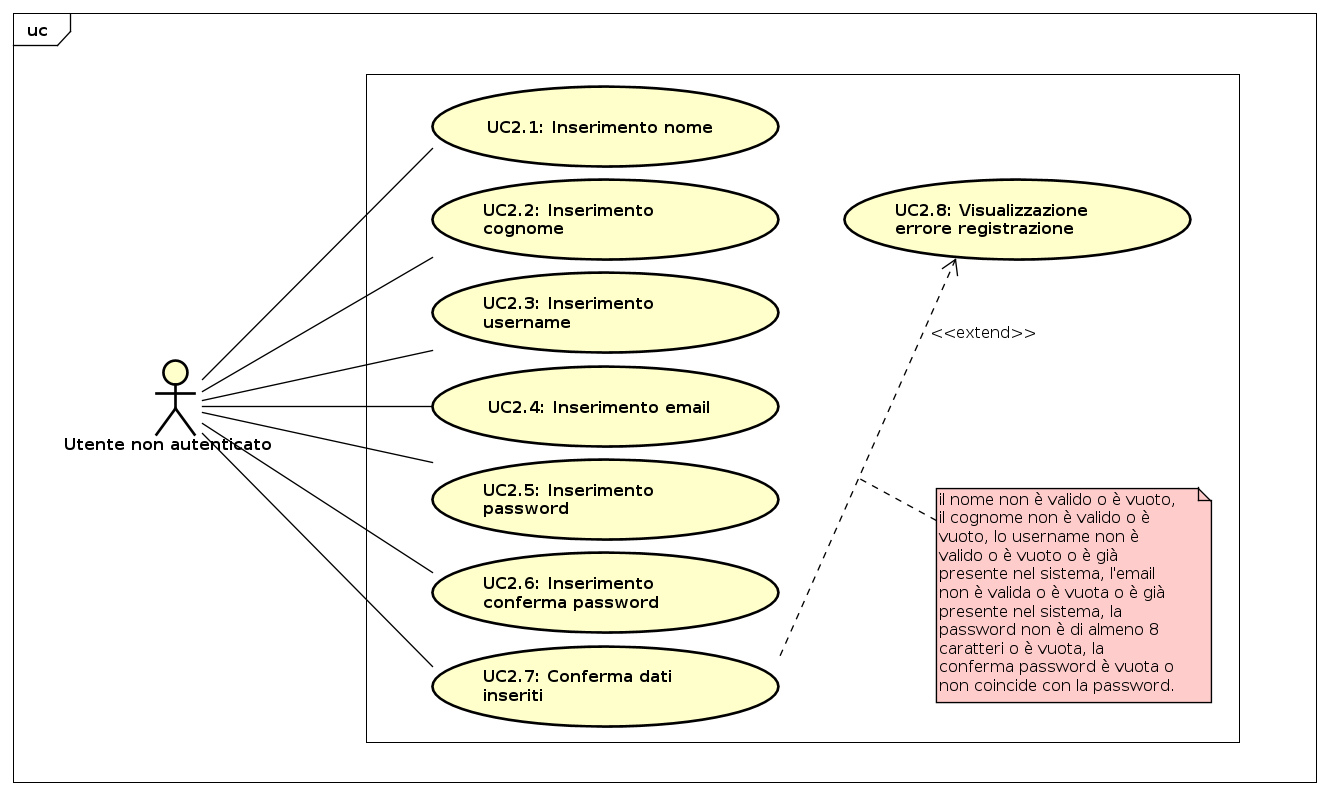
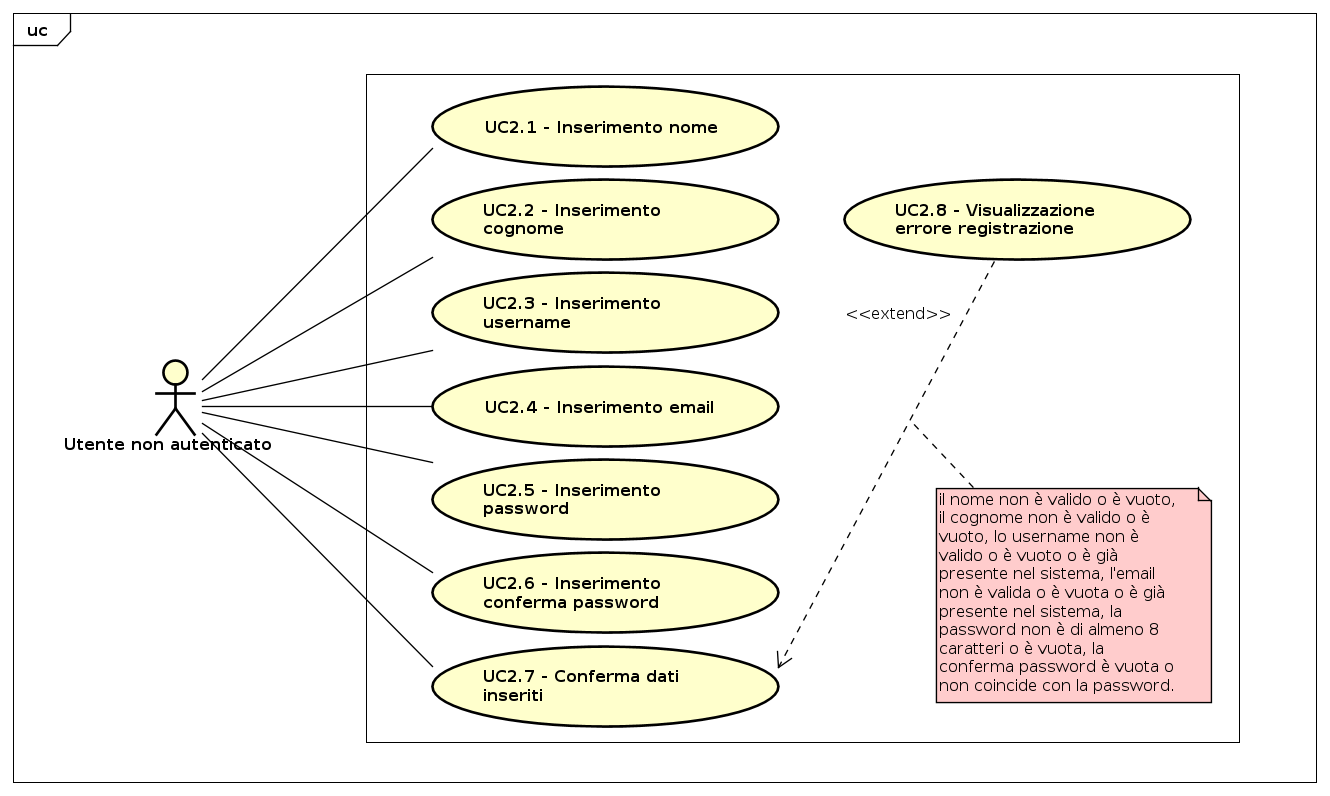
Correzioni ad UC2.

diff --git a/RR/AnalisiDeiRequisiti/sezioni/CasiD'uso/CasoD'usoUC2.tex b/RR/AnalisiDeiRequisiti/sezioni/CasiD'uso/CasoD'usoUC2.tex
@@ -4,19 +4,21 @@
 	\includegraphics[scale=0.5]{UML/UC2.png}
 \end{center}
 \begin{itemize}
-\item \textbf{Attori}: Utente;
-\item \textbf{Scopo e descrizione}: per poter usufruire dei servizi forniti dalla piattaforma, l'utente deve registrarsi inserendo email e password;
+\item \textbf{Attori}: utente non autenticato;
+\item \textbf{Descrizione}: per poter usufruire dei servizi forniti dalla piattaforma, l'attore deve registrarsi inserendo email e password;
 \item \textbf{Precondizione}: il sistema è avviato e mostra la pagina iniziale;
+\item \textbf{Postcondizione}: il sistema ha registrato l'attore.
 \item \textbf{Scenario principale}:
 	\begin{enumerate}
-	\item L'utente inserisce il proprio nome (UCD2.1);
-	\item L'utente inserisce il proprio cognome (UCD2.2);
-	\item L'utente sceglie uno username (UCD2.3);
-	\item L'utente inserisce l'email (UCD2.4);
-	\item L'utente inserisce la password (UCD2.5);
-	\item L'utente inserisce una seconda volta la password (UCD2.6);
-	\item L'utente conferma i dati inseriti (UCD2.7).
+	\item L'attore inserisce il proprio nome (UC2.1);
+	\item L'attore inserisce il proprio cognome (UC2.2);
+	\item L'attore sceglie uno username (UC2.3);
+	\item L'attore inserisce l'email (UC2.4);
+	\item L'attore inserisce la password (UC2.5);
+	\item L'attore inserisce una seconda volta la password (UC2.6);
+	\item L'attore conferma i dati inseriti (UC2.7).
 	\end{enumerate}
+\item \textbf{Estensione}: l'attore visualizza un messaggio di errore (UC2.8).
 \item \textbf{Scenario alternativo}: possono verificarsi uno o più dei seguenti scenari:
 	\begin{itemize}
 	\item[-] Il nome inserito non è valido oppure è vuoto;
@@ -29,70 +31,76 @@
 	\item[-] La password e la conferma password non coincidono.
 	\end{itemize}
 In tal caso il sistema ritorna allo stato precedente l'inserimento dei dati visualizzando un messaggio di errore;
-\item \textbf{Estensione}: l'utente visualizza un messaggio di errore (UCD2.8).
-\item \textbf{Postcondizione}: il sistema ha registrato l'utente.
 \end{itemize}
 
 \subsubsection{Caso d'uso UC2.1: Inserimento nome}
 \begin{itemize}
-\item \textbf{Attori}: Utente;
-\item \textbf{Scopo e descrizione}: l'utente inserisce il proprio nome per potersi registrare;
-\item \textbf{Precondizione}: il sistema presenta all'utente lo spazio destinato a questa operazione;
+\item \textbf{Attori}: utente non autenticato;
+\item \textbf{Descrizione}: l'attore può inserire il proprio nome per potersi registrare;
+\item \textbf{Precondizione}: il sistema presenta all'attore lo spazio destinato a questa operazione;
 \item \textbf{Postcondizione}: il nome è stato inserito.
+\item \textbf{Scenario principale}: l'attore inserisce il proprio nome per potersi registrare;
 \end{itemize}
 
 \subsubsection{Caso d'uso UC2.2: Inserimento cognome}
 \begin{itemize}
-\item \textbf{Attori}: Utente;
-\item \textbf{Scopo e descrizione}: l'utente inserisce il proprio cognome per potersi registrare;
-\item \textbf{Precondizione}: il sistema presenta all'utente lo spazio destinato a questa operazione;
+\item \textbf{Attori}: utente non autenticato;
+\item \textbf{Descrizione}: l'attore può inserire il proprio cognome per potersi registrare;
+\item \textbf{Precondizione}: il sistema presenta all'attore lo spazio destinato a questa operazione;
 \item \textbf{Postcondizione}: il cognome è stato inserito.
+\item \textbf{Scenario principale}: l'attore inserisce il proprio cognome per potersi registrare;
 \end{itemize}
 
 \subsubsection{Caso d'uso UC2.3: Inserimento username}
 \begin{itemize}
-\item \textbf{Attori}: Utente;
-\item \textbf{Scopo e descrizione}: l'utente inserisce il proprio username per potersi registrare;
-\item \textbf{Precondizione}: il sistema presenta all'utente lo spazio destinato a questa operazione;
+\item \textbf{Attori}: utente non autenticato;
+\item \textbf{Descrizione}: l'attore può inserire il proprio username per potersi registrare;
+\item \textbf{Precondizione}: il sistema presenta all'attore lo spazio destinato a questa operazione;
 \item \textbf{Postcondizione}: lo username è stato inserito.
+\item \textbf{Scenario principale}: l'attore inserisce il proprio username per potersi registrare;
 \end{itemize}
 
 \subsubsection{Caso d'uso UC2.4: Inserimento email}
 \begin{itemize}
-\item \textbf{Attori}: Utente;
-\item \textbf{Scopo e descrizione}: l'utente inserisce il proprio indirizzo email per potersi registrare;
-\item \textbf{Precondizione}: il sistema presenta all'utente lo spazio destinato a questa operazione;
+\item \textbf{Attori}: utente non autenticato;
+\item \textbf{Descrizione}: l'attore può inserire il proprio indirizzo email per potersi registrare;
+\item \textbf{Precondizione}: il sistema presenta all'attore lo spazio destinato a questa operazione;
 \item \textbf{Postcondizione}: l'email è stata inserita.
+\item \textbf{Scenario principale}: l'attore inserisce il proprio indirizzo email per potersi registrare; 
 \end{itemize}
 
 \subsubsection{Caso d'uso UC2.5: Inserimento password}
 \begin{itemize}
-\item \textbf{Attori}: Utente;
-\item \textbf{Scopo e descrizione}: l'utente inserisce una password a sua scelta per potersi registrare;
-\item \textbf{Precondizione}: il sistema presenta all'utente lo spazio destinato a questa operazione;
+\item \textbf{Attori}: utente non autenticato;
+\item \textbf{Descrizione}: l'attore può inserire una password a sua scelta per potersi registrare;
+\item \textbf{Precondizione}: il sistema presenta all'attore lo spazio destinato a questa operazione;
 \item \textbf{Postcondizione}: la password è stata inserita.
+\item \textbf{Scenario principale}: l'attore inserisce una password a sua scelta per potersi registrare;
 \end{itemize}
 
 \subsubsection{Caso d'uso UC2.6: Inserimento conferma password}
 \begin{itemize}
-\item \textbf{Attori}: Utente;
-\item \textbf{Scopo e descrizione}: l'utente inserisce nuovamente la password scelta;
-\item \textbf{Precondizione}: il sistema presenta all'utente lo spazio destinato a questa operazione;
+\item \textbf{Attori}: utente non autenticato;
+\item \textbf{Descrizione}: l'attore può inserire nuovamente la password scelta;
+\item \textbf{Precondizione}: il sistema presenta all'attore lo spazio destinato a questa operazione;
 \item \textbf{Postcondizione}: la conferma della password è stata inserita.
+\item \textbf{Scenario principale}: l'attore inserisce nuovamente la password scelta;
 \end{itemize}
 
 \subsubsection{Caso d'uso UC2.7: Conferma registrazione}
 \begin{itemize}
-\item \textbf{Attori}: Utente;
-\item \textbf{Scopo e descrizione}: l'utente conferma i dati inseriti;
-\item \textbf{Precondizione}: il sistema presenta all'utente lo spazio destinato a questa operazione;
+\item \textbf{Attori}: utente non autenticato;
+\item \textbf{Descrizione}: l'attore può confermare i dati inseriti;
+\item \textbf{Precondizione}: il sistema presenta all'attore lo spazio destinato a questa operazione;
 \item \textbf{Postcondizione}: il sistema ha ricevuto i dati per la registrazione.
+\item \textbf{Scenario principale}: l'attore conferma i dati inseriti;
 \end{itemize}
 
 \subsubsection{Caso d'uso UC2.8: Visualizzazione errore registrazione}
 \begin{itemize}
-\item \textbf{Attori}: Utente;
-\item \textbf{Scopo e descrizione}: l'utente visualizza un messaggio d'errore nel caso si fossero verificati uno o più scenari alternativi;
+\item \textbf{Attori}: utente non autenticato;
+\item \textbf{Descrizione}: l'attore può visualizzare un messaggio d'errore nel caso si fossero verificati uno o più scenari alternativi;
 \item \textbf{Precondizione}: il sistema ha ricevuto dei dati errati per la registrazione;
 \item \textbf{Postcondizione}: il sistema mostra un messaggio di errore.
+\item \textbf{Scenario principale}: l'attore visualizza un messaggio d'errore nel caso si fossero verificati uno o più scenari alternativi;
 \end{itemize}
